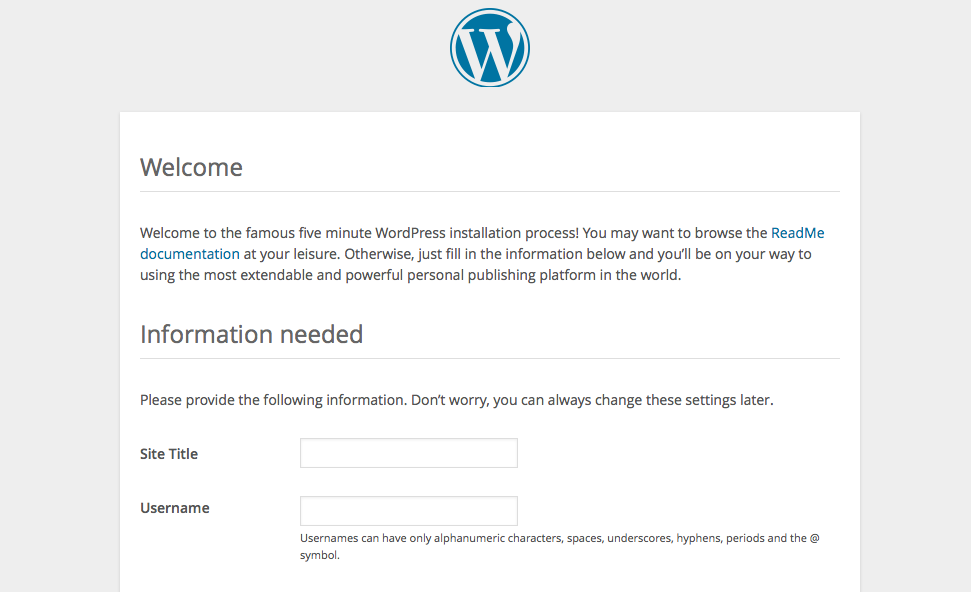
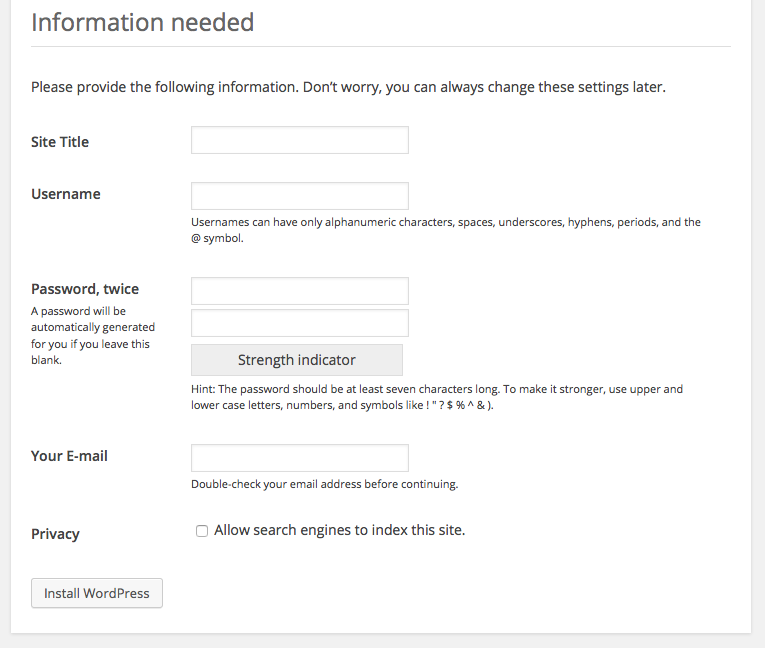
Update WordPress guide

diff --git a/_posts/2015-02-27-wordpress.md b/_posts/2015-02-27-wordpress.md
@@ -1,0 +1,57 @@
+---
+layout: article
+title: Getting Started with WordPress
+utm: utm_source=nitrous.io&utm_medium=tutorial&utm_campaign=wordpress
+published: true
+category: tutorials
+---
+
+[WordPress](http://wordpress.org) is web software you can use to create a website or blog. It is a CMS (content management system), meaning you can edit and maintain the content within a central interface.
+
+### Prerequisites
+
+* A [Nitrous.IO Account](https://www.nitrous.io?{{page.utm}})
+
+### Create a Box
+
+First you will need to create a box that we’ll install WordPress on. Select PHP as your environment and give the box a name (ex. WordPress).
+
+Select continue and wait while Nitrous builds your dev environment.
+
+![WordPress PHP Box](/images/articles/wordpress-php-box.png)
+
+### Install WordPress
+
+To install WordPress within your box you will need to use the package manager, [Autoparts](/autoparts). Navigate in the Menu to **Autoparts > Install Parts...**, and search for *WordPress*.
+
+![Installing WordPress with Nitrous](/images/articles/wordpress-autoparts.png)
+
+Installing WordPress will automatically install all dependencies if not yet installed (PHP5, Apache2, MySQL). Once installed, the WordPress installation can be found in `~/workspace/www/WordPress`.
+
+### Configuration
+
+To connect to your new site, navigate in the menu bar to **Preview > Port 3000**.
+
+![Preview Port 3000](/images/articles/preview-port-3000.png)
+
+Once a new tab opens up you should see the `Wordpress/` directory leading to your new site. Click on that directory and select your language.
+
+On the next page you will be prompted configure your new site.
+
+![WordPress Configurations](/images/articles/wordpress-configuration.png)
+
+The fields you need to fill in here are:
+
+**Site Title**: This is what will be displayed in the top of browsers so do ensure it is descriptive of your site content.
+
+**User Name**: This is the user name that you will use to login to the admin panel
+
+**Password**: This is your password to access the admin panel, so make sure it’s strong and secure.
+
+**Email Address**: The address that is specified here is the email address used for the administration of the site.
+
+**Privacy**: As this is a development box I would suggest to uncheck the Privacy field otherwise search engines may start to index your content, which has the potential to cause slight issues further down the line. Just be sure that when you port the system to production that you change the setting to be indexed: Admin > Settings > Reading > Search Engine Visibility.
+
+Once you've filled out these fields, select **Install WordPress**. You have successfully installed WordPress on Nitrous, and are able to login to the admin panel and start developing.
+
+*Updates to this guide were contributed by [Matt Rhys-Davies - WordPress Ecommerce Developer and Analyst.](https://mattrhysdavies.com)*

diff --git a/_posts/2015-02-23-magento.md b/_posts/2015-02-23-magento.md
@@ -6,7 +6,7 @@ published: true
 category: tutorials
 ---
 
-*This installation guide was created by [Matt Rhys-Davies - Ecommerce Analyst.](https://mattrhysdavies.com)*
+*This installation guide was contributed by [Matt Rhys-Davies - Ecommerce Analyst.](https://mattrhysdavies.com)*
 
 The following guide will detail how to install Magento, the hugely popular open source ecommerce framework on Nitrous. We'll walk through setting up your box on Nitrous, grabbing a copy of Magento and getting it setup.
 
